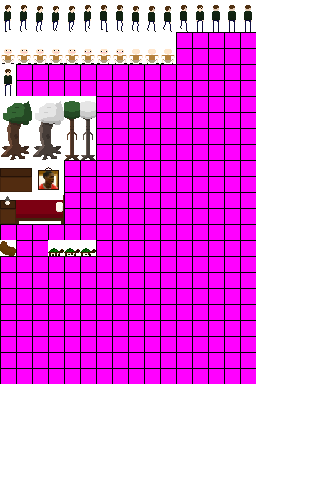
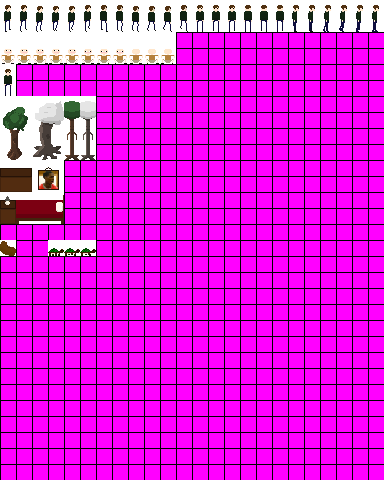
more animation stuff

diff --git a/ToadEngine/src/toad/game/entities/Player.java b/ToadEngine/src/toad/game/entities/Player.java
@@ -17,14 +17,10 @@ public class Player extends Mob {
 	public Player(Level level, int x, int y) {
 		super(level, x, y, Assets.player, Assets.pl_hz, Assets.pl_u, Assets.pl_dn);
 		upr = Assets.pl_ur;
+		dnr = Assets.pl_dr;
 		makeCollider(4, 24, 7, 8);
 
 	}
-
-	/*
-	 * 1 2 3 4 0 5 Rotation map 6 7 8
-	 * 
-	 */
 
 	@Override
 	public void update() {
@@ -59,27 +55,36 @@ public class Player extends Mob {
 					Main.g.drawImage(image, x - GameState.camera.x, y - GameState.camera.y, w, h, null);
 				} else if (HZDir == -1) {
 					Main.g.drawImage(image, x - GameState.camera.x + (w), y - GameState.camera.y, -(w), h, null);
+				} else {
+					Main.g.drawImage(dn.frames[0], x - GameState.camera.x, y - GameState.camera.y, w, h, null);
 				}
 			} else {
 				if (HZDir == 1) {
 					Main.g.drawImage(upr.frames[0], x - GameState.camera.x, y - GameState.camera.y, w, h, null);
 				} else if (HZDir == -1) {
-					Main.g.drawImage(upr.frames[0], x - GameState.camera.x + (w), y - GameState.camera.y, -(w), h, null);
+					Main.g.drawImage(upr.frames[0], x - GameState.camera.x + (w), y - GameState.camera.y, -(w), h,
+							null);
+				} else {
+					Main.g.drawImage(up.frames[0], x - GameState.camera.x, y - GameState.camera.y, w, h, null);
 				}
 			}
 
 		} else {
 			if (VDir == 1) {
 				if (HZDir == 1) {
-					Main.g.drawImage(hz.animate(), x - GameState.camera.x, y - GameState.camera.y, w, h, null);
+					Main.g.drawImage(dnr.animate(), x - GameState.camera.x, y - GameState.camera.y, w, h, null);
 				} else if (HZDir == -1) {
-					Main.g.drawImage(hz.animate(), x - GameState.camera.x + (w), y - GameState.camera.y, -(w), h, null);
+					Main.g.drawImage(dnr.animate(), x - GameState.camera.x + (w), y - GameState.camera.y, -(w), h,
+							null);
+				} else {
+					Main.g.drawImage(dn.animate(), x - GameState.camera.x, y - GameState.camera.y, w, h, null);
 				}
 			} else {
 				if (HZDir == 1) {
 					Main.g.drawImage(upr.animate(), x - GameState.camera.x, y - GameState.camera.y, w, h, null);
 				} else if (HZDir == -1) {
-					Main.g.drawImage(upr.animate(), x - GameState.camera.x + (w), y - GameState.camera.y, -(w), h, null);
+					Main.g.drawImage(upr.animate(), x - GameState.camera.x + (w), y - GameState.camera.y, -(w), h,
+							null);
 				}
 			}
 		}

diff --git a/ToadEngine/src/toad/gfx/Assets.java b/ToadEngine/src/toad/gfx/Assets.java
@@ -8,9 +8,10 @@ public class Assets {
 	static SpriteSheet buildings = new SpriteSheet("/images/ss_bldg.png");
 	// Mobs
 	public static final BufferedImage player = entities.getImage(0, 0, 16, 32);
-	public static final Animation pl_hz = new Animation(10, entities.getAnimation(16, 0, 16, 32, 5), false);
+	public static final Animation pl_hz = new Animation(10, entities.getAnimation(288, 0, 16, 32, 6), true);
+	public static final Animation pl_dr = new Animation(10, entities.getAnimation(0, 0, 16, 32, 6), true);
 	public static final Animation pl_u = new Animation(15, entities.getAnimation(128, 0, 16, 32, 3), true);
-	public static final Animation pl_dn = new Animation(15, entities.getAnimation(80, 0, 16, 32, 3), true);
+	public static final Animation pl_dn = new Animation(15, entities.getAnimation(192, 0, 16, 32, 3), true);
 	public static final Animation pl_ur = new Animation(10, entities.getAnimation(96, 0, 16, 32, 6), true);
 	
 	public static final BufferedImage npc1 = entities.getImage(0, 64, 16, 32);

diff --git a/ToadEngine/src/toad/dev/DevOptions.java b/ToadEngine/src/toad/dev/DevOptions.java
@@ -77,6 +77,18 @@ public class DevOptions extends Canvas {
 			}
 		}
 	};
+	GameButton previewHZ = new GameButton(0, 16, 16, 8, input) {
+		public void onClick() {
+			if (!previewActive) {
+				activePreview = new AnimationPreview(Assets.pl_hz);
+				previewActive = true;
+			} else {
+				activePreview.close();
+				activePreview = null;
+				previewActive = false;
+			}
+		}
+	};
 
 	BufferStrategy bs;
 	public static Graphics2D g;
@@ -96,6 +108,8 @@ public class DevOptions extends Canvas {
 		Animpreview.tick();
 		previewup.render(g);
 		previewup.tick();
+		previewHZ.render(g);
+		previewHZ.tick();
 		
 		g.drawString("" + Main.main.frames, 100, 100);
 
